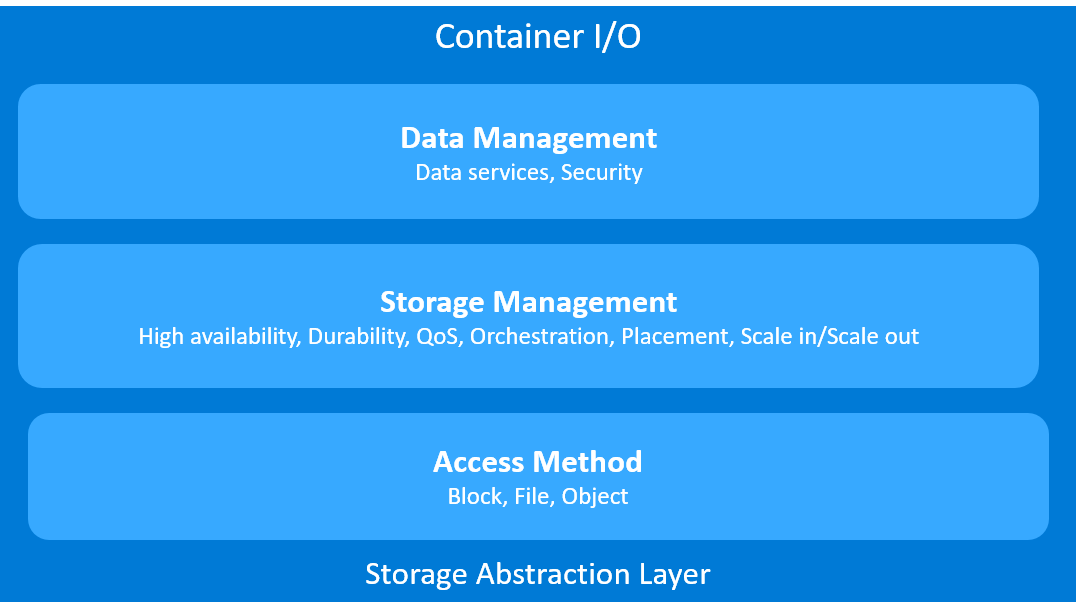
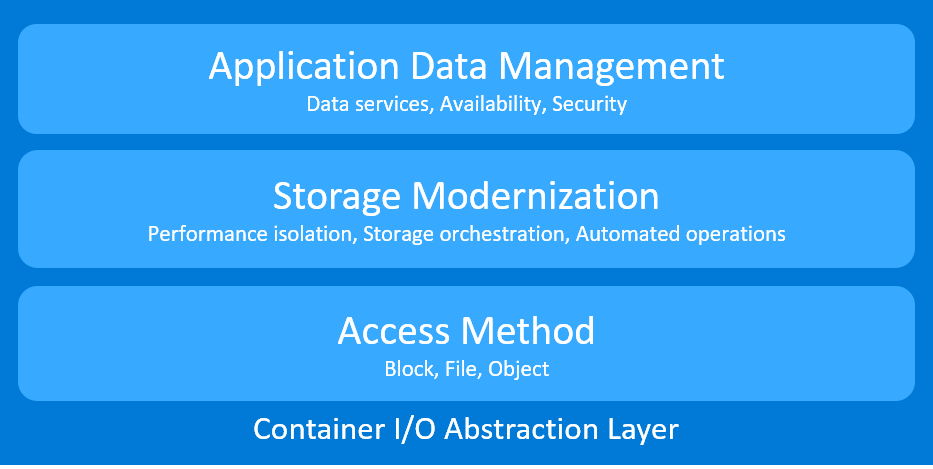
Update intro section and image

diff --git a/what_is_cio/introduction.md b/what_is_cio/introduction.md
@@ -1,15 +1,19 @@
 # Introduction 
 
-Orchestration systems create an abstraction layer on top of a group of hosts, so development teams can quickly deploy applications on logical resources. Similarly, Storidge's Container I/O (CIO) is a tool that creates a storage abstraction layer for stateful applications to persist and share data on logical resources. 
+Orchestration systems create an abstraction layer on top of a group of hosts, so development teams can quickly deploy applications on logical resources. Similarly, Storidge's Container I/O (CIO) is a tool that creates a storage abstraction layer for stateful applications to persist, share and manage data on logical resources. 
 
 The CIO software runs on virtual machines, cloud instances and bare metal hosts. This means developers can easily create environments for stateful application development and testing that operates the same as production clusters. This flexibility helps eliminate "works on my machine" situations that slow development. 
 
 ![cio abstraction layer](../images/cio-abstraction-layer.png)
 
 ## Why CIO?
-Cloud native apps are orchestrated, scalable, mobile and storage agnostic. These traits make older storage technologies a poor fit. Storidge's CIO was purpose built to solve data management challenges in these new orchestrated environments. It eliminates the manual effort, inconsistencies and tedium in trying to integrate external networked storage to an orchestrated environment. 
+Cloud native apps are orchestrated, scalable, mobile and storage agnostic. These traits make older storage technologies a poor fit. Storidge's CIO was purpose built to solve application data management challenges in these new orchestrated environments. It eliminates the manual effort, inconsistencies and tedium in trying to patch external networked storage into an orchestrated environment.
 
-Built on a foundation for storage automation, the CIO software makes development teams more productive, and operations teams more efficient.
+Modern applications are written to expect automated services from the environment so they can be singularly focused. These services provided by the orchestration system enable microservices development. Similarly, storage must be modernized to enable stateful applications running in orchestrated environments. Performance isolation should be an inherent capability that allows stateful apps to scale predictably. Storage orchestration and data locality must be baked in so rescheduled applications have consistent performance. Storage must be automated and delivered as a service with no operational involvement. 
+
+For stateful applications, data management must happen at the granularity of the pod or container. High availability requires little or no operational setup when storage is implemented to work with schedulers. Data security should account for the fact that data is portable and access control locked to a local authentication server is a partial answer. 
+
+This is the reason Storidge rearchitected a new solution for orchestrated environments. Built on a foundation for storage automation, CIO makes development teams more productive, and operations teams more efficient.
 
 ## CIO for Developers
 
@@ -29,11 +33,13 @@ Built on a foundation for storage automation, the CIO software makes development
 
 - Save money by sharing and reusing the same tools, practices and experiences across different platforms
 
+- Save time with storage that seamlessly supports orchestrated applications with consistent performance
+
 - Bring development environment closer to production to shorten release cycles. Eliminate "works on my machine" problems and resolve issues earlier
 
-- Avoid 3 am emergencies with storage that's automated for orchestration systems and backend storage operations
+- Avoid 3 am emergencies with automated storage operations and recovery
 
-- Future proof investments with platform that supports legacy and cloud native application
+- Modernize storage with a purpose built solution for supporting both new and old applications
 
 
 
